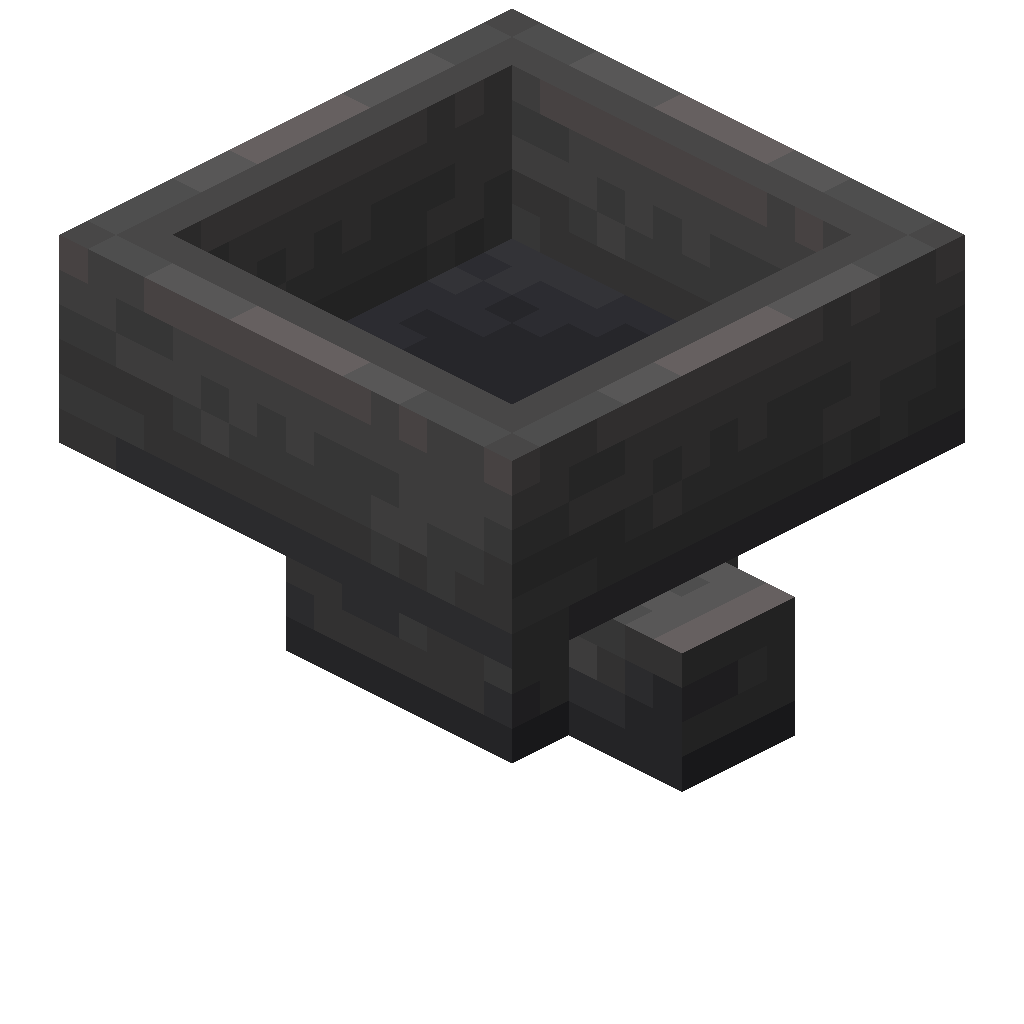
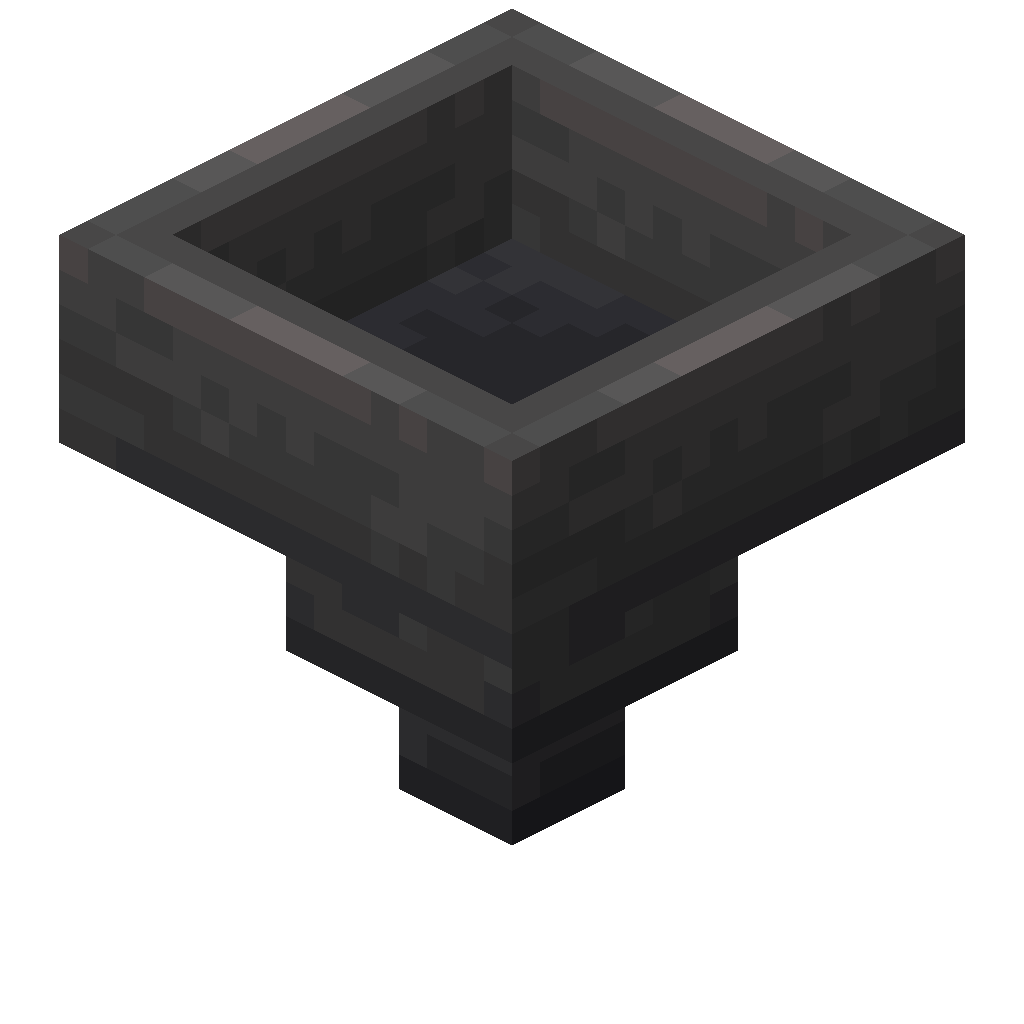
hopper fix

Changed region(s): [[0.375, 0.5312, 0.7812, 0.8438]]

diff --git a/blockmodel-utils.js b/blockmodel-utils.js
@@ -105,6 +105,9 @@ const UNIQUE_DEFAULT_BLOCKSTATES = {
   },
   pale_moss_carpet: {
     bottom: true
+  },
+  hopper: {
+    facing: "down"
   }
 }
 
